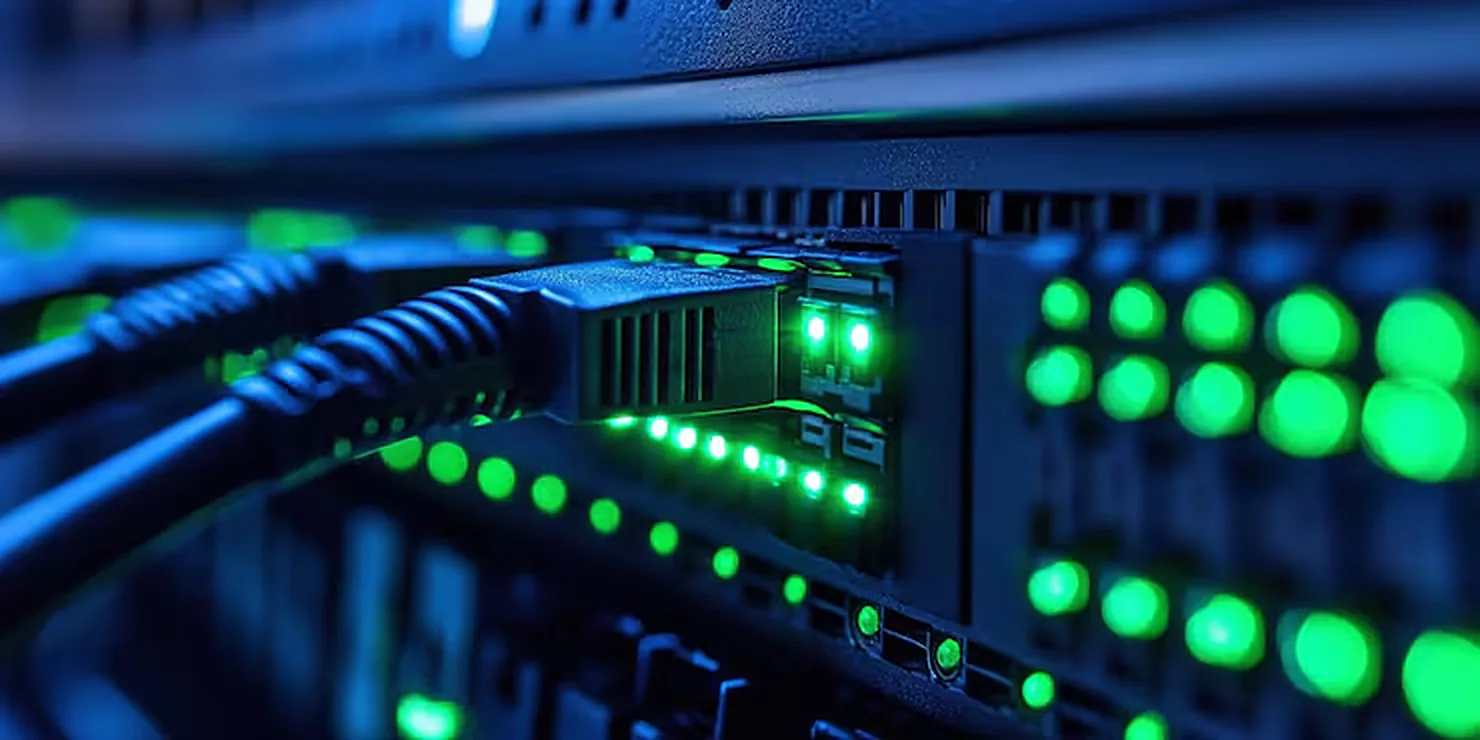
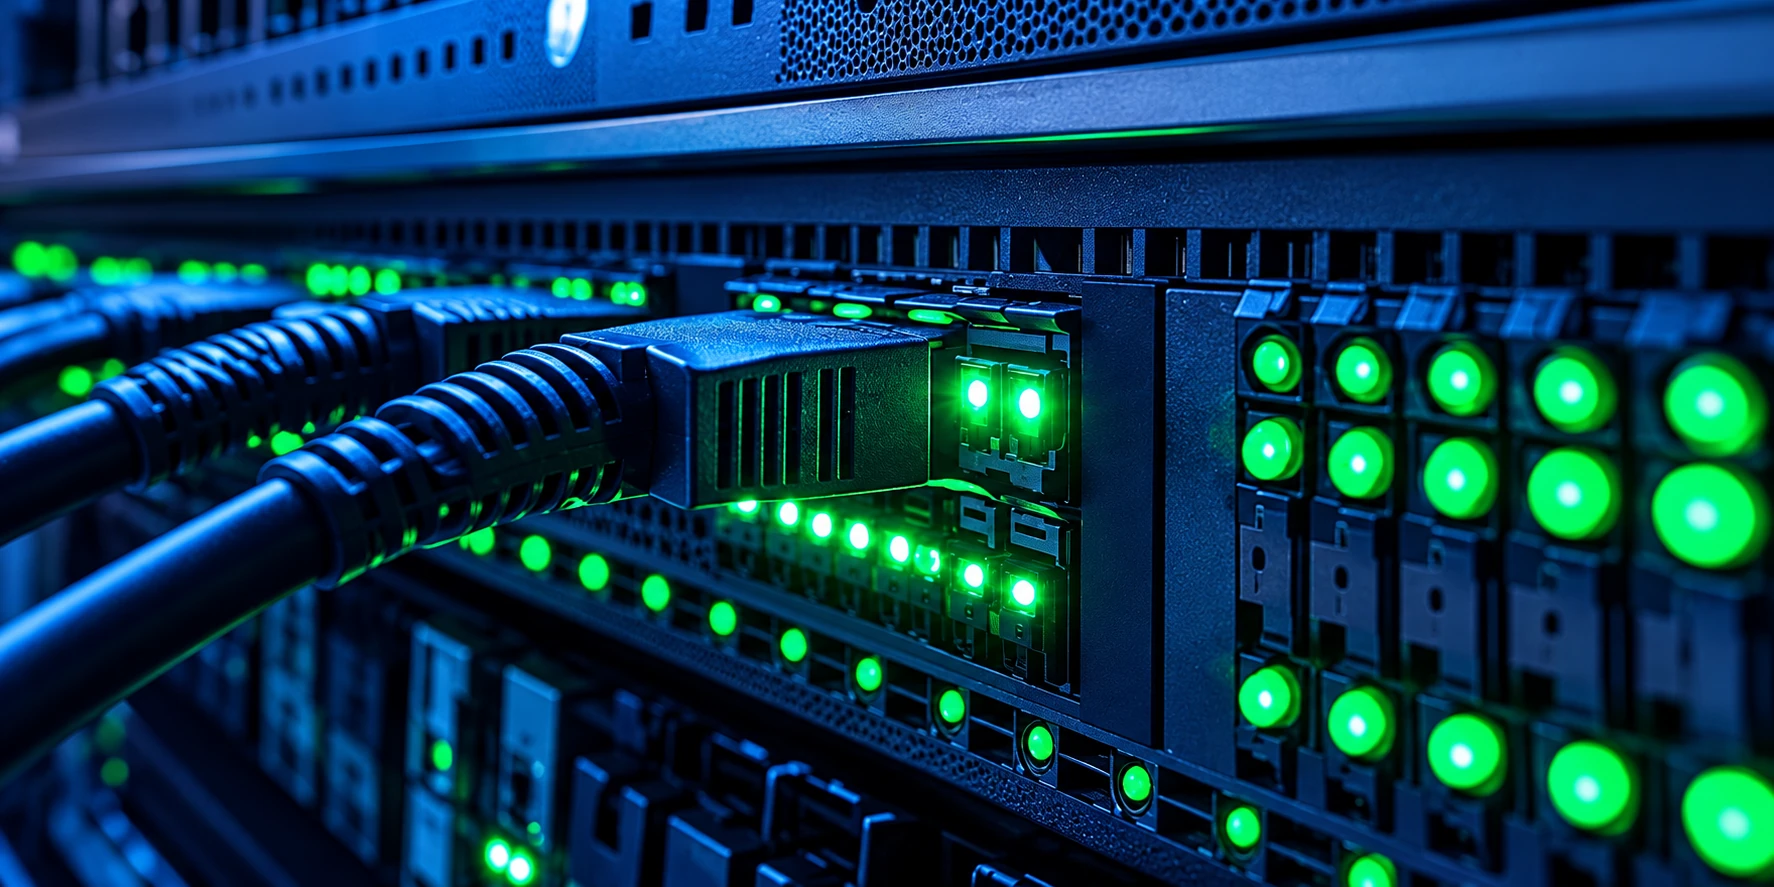
Sharpen process section background image

diff --git a/public/assets/css/site.css b/public/assets/css/site.css
@@ -133,7 +133,7 @@ ul,ol{margin:0;padding:0;list-style:none}
 .section--rack{position:relative;border-top:1px solid var(--line);border-bottom:1px solid var(--line);
   background:linear-gradient(90deg,rgba(11,15,20,.62) 0%,rgba(11,15,20,.38) 45%,rgba(11,15,20,.12) 100%),
     linear-gradient(180deg,rgba(11,15,20,.35),rgba(11,15,20,0) 25%,rgba(11,15,20,0) 75%,rgba(11,15,20,.4)),
-    url(/assets/img/rack-bg.webp?v=42051e24a2) center/cover no-repeat,var(--ink)}
+    url(/assets/img/rack-bg.webp?v=4f72c338eb) center/cover no-repeat,var(--ink)}
 .section--rack .step{background:rgba(10,15,21,.86)}
 .section--rack h2,.section--rack .proof{text-shadow:0 2px 18px rgba(0,0,0,.85)}
 .section--rack .proof{background:rgba(10,15,21,.7);padding:10px 16px 10px 18px;border-radius:0 8px 8px 0;display:inline-block}
@@ -323,7 +323,7 @@ a.desk .desk__addr{color:var(--jade)}
   .form__row{grid-template-columns:1fr}
   .hero__ctas .btn{flex:1 1 auto}
   .foot__desks>div{flex-direction:column;align-items:center;gap:2px}
-  .section--rack{background:linear-gradient(180deg,rgba(11,15,20,.55),rgba(11,15,20,.3) 50%,rgba(11,15,20,.55)),url(/assets/img/rack-bg.webp?v=42051e24a2) 30% center/cover no-repeat,var(--ink)}
+  .section--rack{background:linear-gradient(180deg,rgba(11,15,20,.55),rgba(11,15,20,.3) 50%,rgba(11,15,20,.55)),url(/assets/img/rack-bg.webp?v=4f72c338eb) 30% center/cover no-repeat,var(--ink)}
   .foot__desks{gap:10px}
 }
 @media (prefers-reduced-motion:reduce){

diff --git a/public/index.html b/public/index.html
@@ -25,7 +25,7 @@
 <link rel="manifest" href="/site.webmanifest">
 <link rel="preload" href="/assets/fonts/manrope-latin-800-normal.woff2?v=40a9e3a1e3" as="font" type="font/woff2" crossorigin>
 <link rel="preload" href="/assets/fonts/manrope-latin-500-normal.woff2?v=119dbdffcd" as="font" type="font/woff2" crossorigin>
-<link rel="stylesheet" href="/assets/css/site.css?v=23691e31ad">
+<link rel="stylesheet" href="/assets/css/site.css?v=29c1930b57">
 <script type="application/ld+json">{"@context":"https://schema.org","@type":"Organization","name":"Fusion Farm LLC","alternateName":"Fusion Farm","url":"https://fusionfarm.net/","logo":"https://fusionfarm.net/icon-512.png","slogan":"Intelligence, engineered.","description":"Fusion Farm designs and builds intelligence systems: the technology that turns scattered data, documents and signals into clear, decision-ready answers.","address":[{"@type":"PostalAddress","addressLocality":"Chicago","addressRegion":"IL","addressCountry":"US"},{"@type":"PostalAddress","addressLocality":"Minneapolis","addressRegion":"MN","addressCountry":"US"},{"@type":"PostalAddress","addressLocality":"Seattle","addressRegion":"WA","addressCountry":"US"}],"areaServed":"Worldwide","sameAs":["https://www.linkedin.com/company/fusionfarm-llc"]}</script>
 </head>
 <body class="page-home">

diff --git a/public/404.html b/public/404.html
@@ -25,7 +25,7 @@
 <link rel="manifest" href="/site.webmanifest">
 <link rel="preload" href="/assets/fonts/manrope-latin-800-normal.woff2?v=40a9e3a1e3" as="font" type="font/woff2" crossorigin>
 <link rel="preload" href="/assets/fonts/manrope-latin-500-normal.woff2?v=119dbdffcd" as="font" type="font/woff2" crossorigin>
-<link rel="stylesheet" href="/assets/css/site.css?v=23691e31ad">
+<link rel="stylesheet" href="/assets/css/site.css?v=29c1930b57">
 
 </head>
 <body class="page-notfound">

diff --git a/public/contact/index.html b/public/contact/index.html
@@ -25,7 +25,7 @@
 <link rel="manifest" href="/site.webmanifest">
 <link rel="preload" href="/assets/fonts/manrope-latin-800-normal.woff2?v=40a9e3a1e3" as="font" type="font/woff2" crossorigin>
 <link rel="preload" href="/assets/fonts/manrope-latin-500-normal.woff2?v=119dbdffcd" as="font" type="font/woff2" crossorigin>
-<link rel="stylesheet" href="/assets/css/site.css?v=23691e31ad">
+<link rel="stylesheet" href="/assets/css/site.css?v=29c1930b57">
 
 </head>
 <body class="page-contact">

diff --git a/public/domains/index.html b/public/domains/index.html
@@ -25,7 +25,7 @@
 <link rel="manifest" href="/site.webmanifest">
 <link rel="preload" href="/assets/fonts/manrope-latin-800-normal.woff2?v=40a9e3a1e3" as="font" type="font/woff2" crossorigin>
 <link rel="preload" href="/assets/fonts/manrope-latin-500-normal.woff2?v=119dbdffcd" as="font" type="font/woff2" crossorigin>
-<link rel="stylesheet" href="/assets/css/site.css?v=23691e31ad">
+<link rel="stylesheet" href="/assets/css/site.css?v=29c1930b57">
 
 </head>
 <body class="page-domains">

diff --git a/public/privacy/index.html b/public/privacy/index.html
@@ -25,7 +25,7 @@
 <link rel="manifest" href="/site.webmanifest">
 <link rel="preload" href="/assets/fonts/manrope-latin-800-normal.woff2?v=40a9e3a1e3" as="font" type="font/woff2" crossorigin>
 <link rel="preload" href="/assets/fonts/manrope-latin-500-normal.woff2?v=119dbdffcd" as="font" type="font/woff2" crossorigin>
-<link rel="stylesheet" href="/assets/css/site.css?v=23691e31ad">
+<link rel="stylesheet" href="/assets/css/site.css?v=29c1930b57">
 
 </head>
 <body class="page-privacy">
